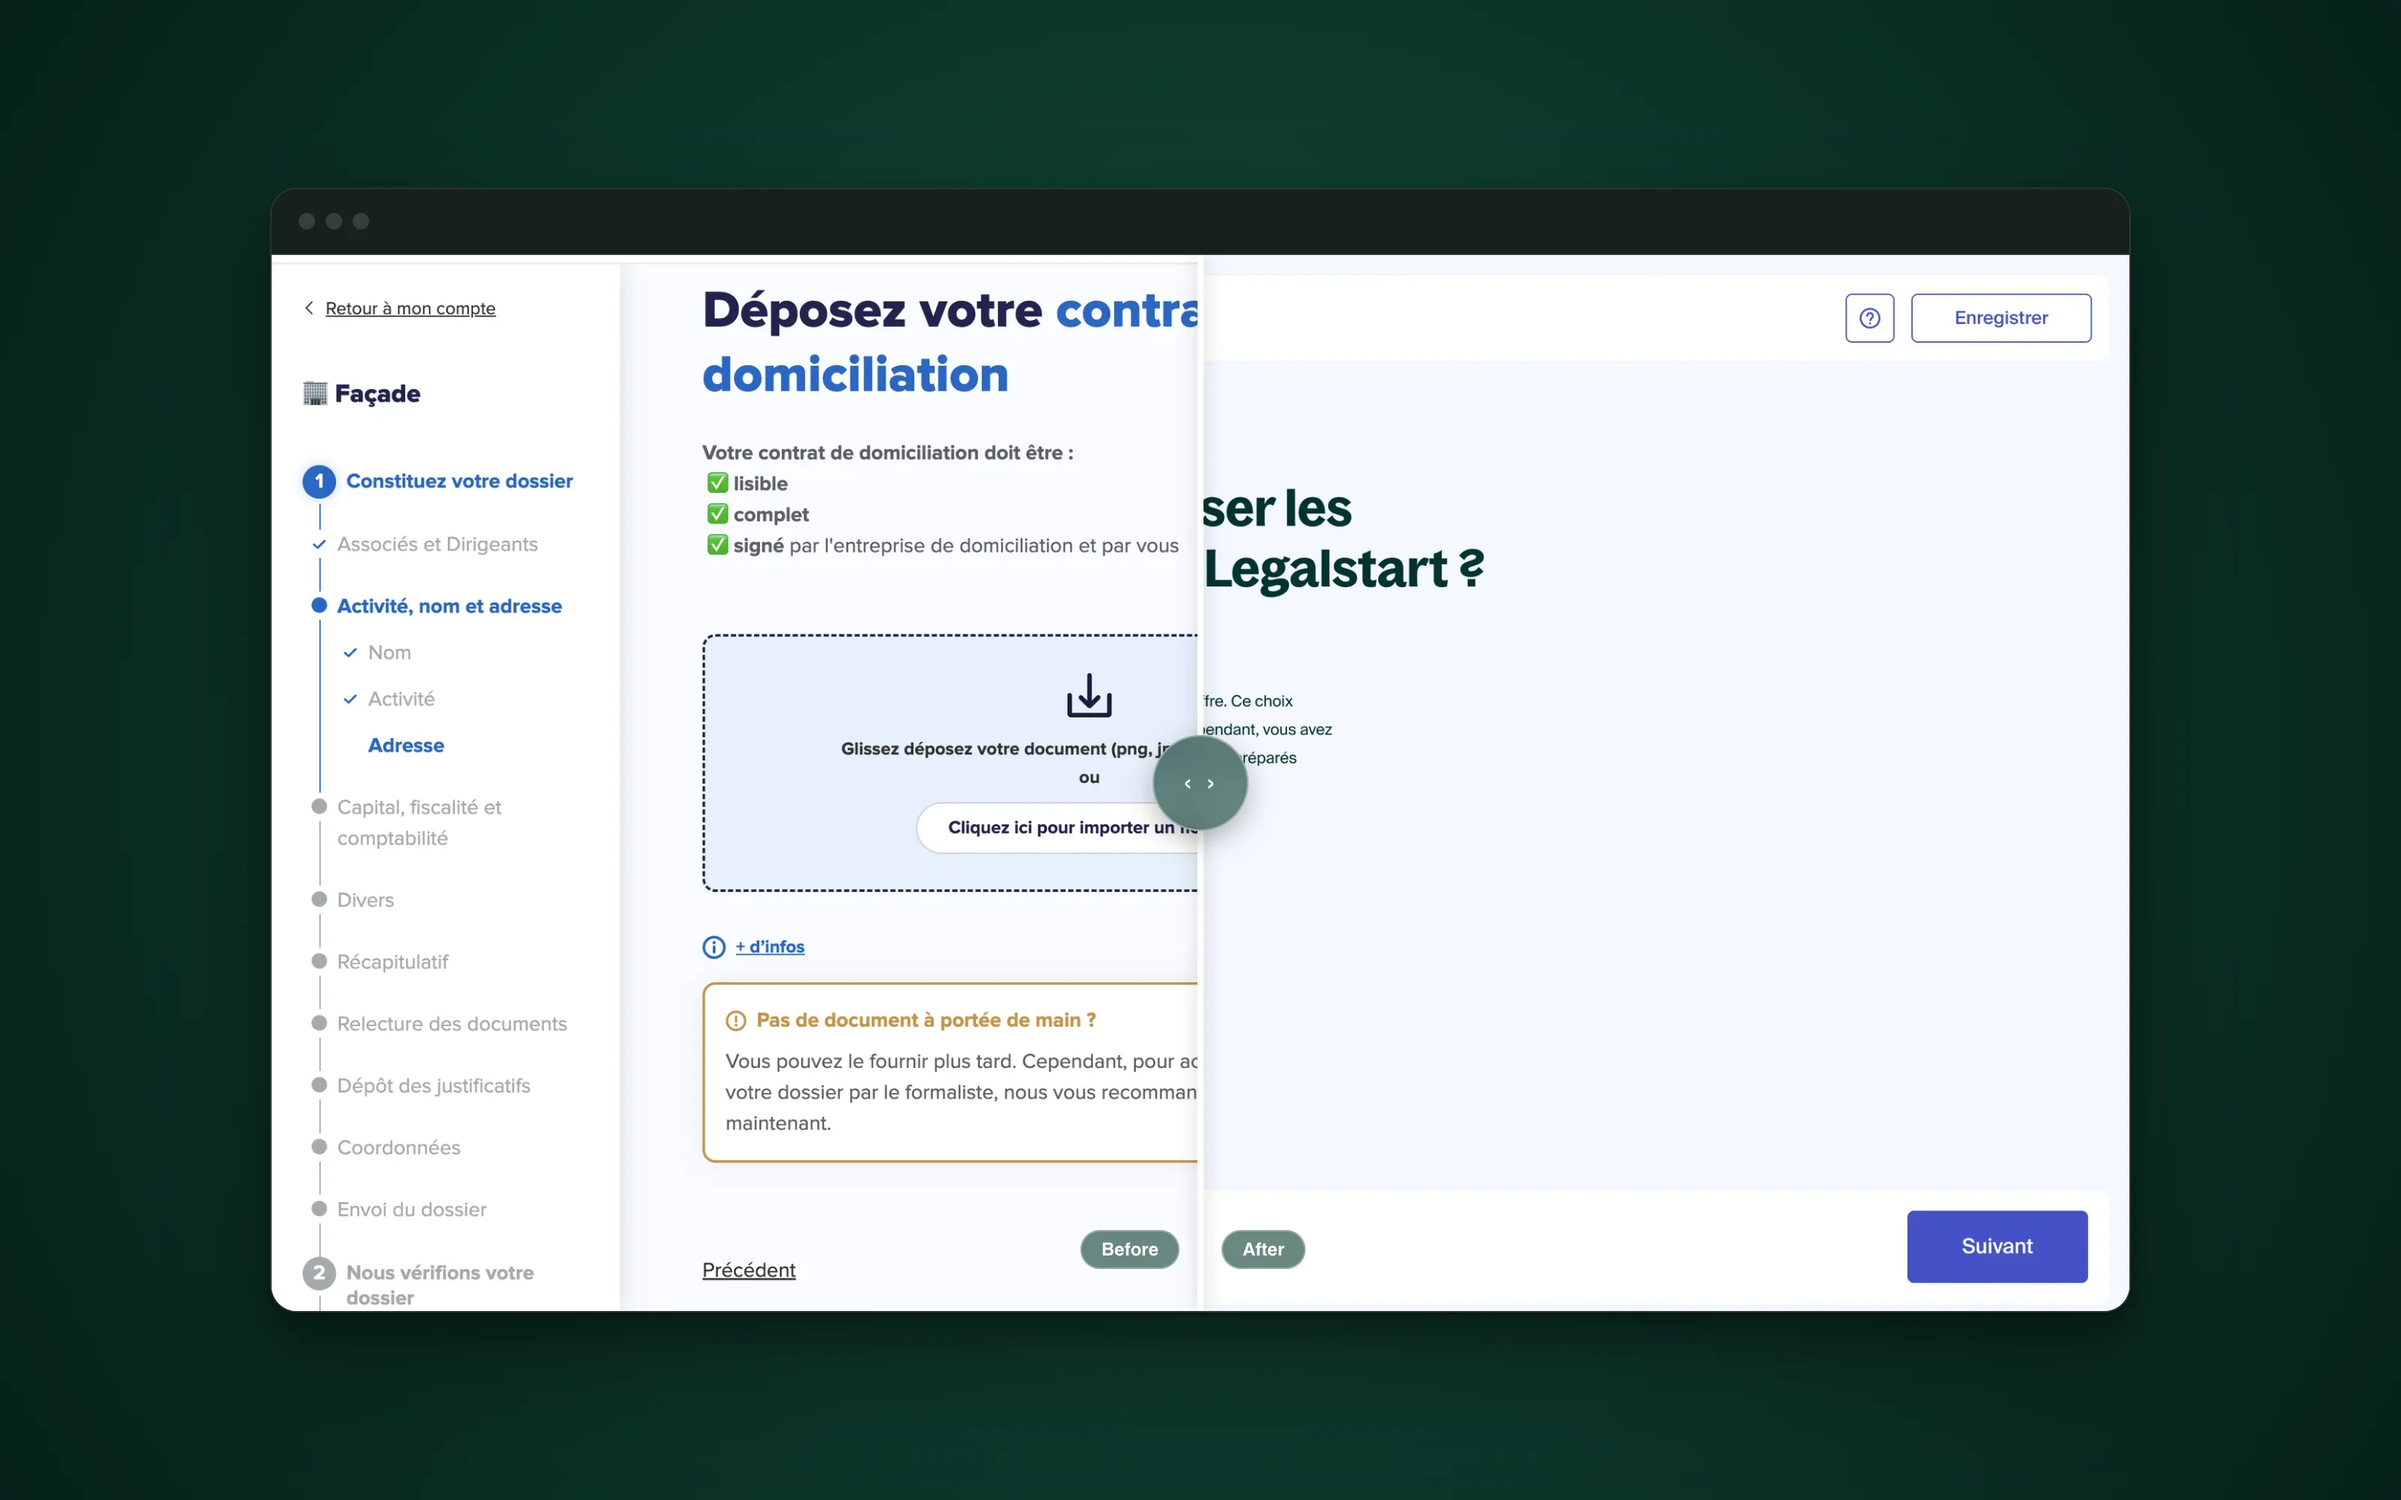
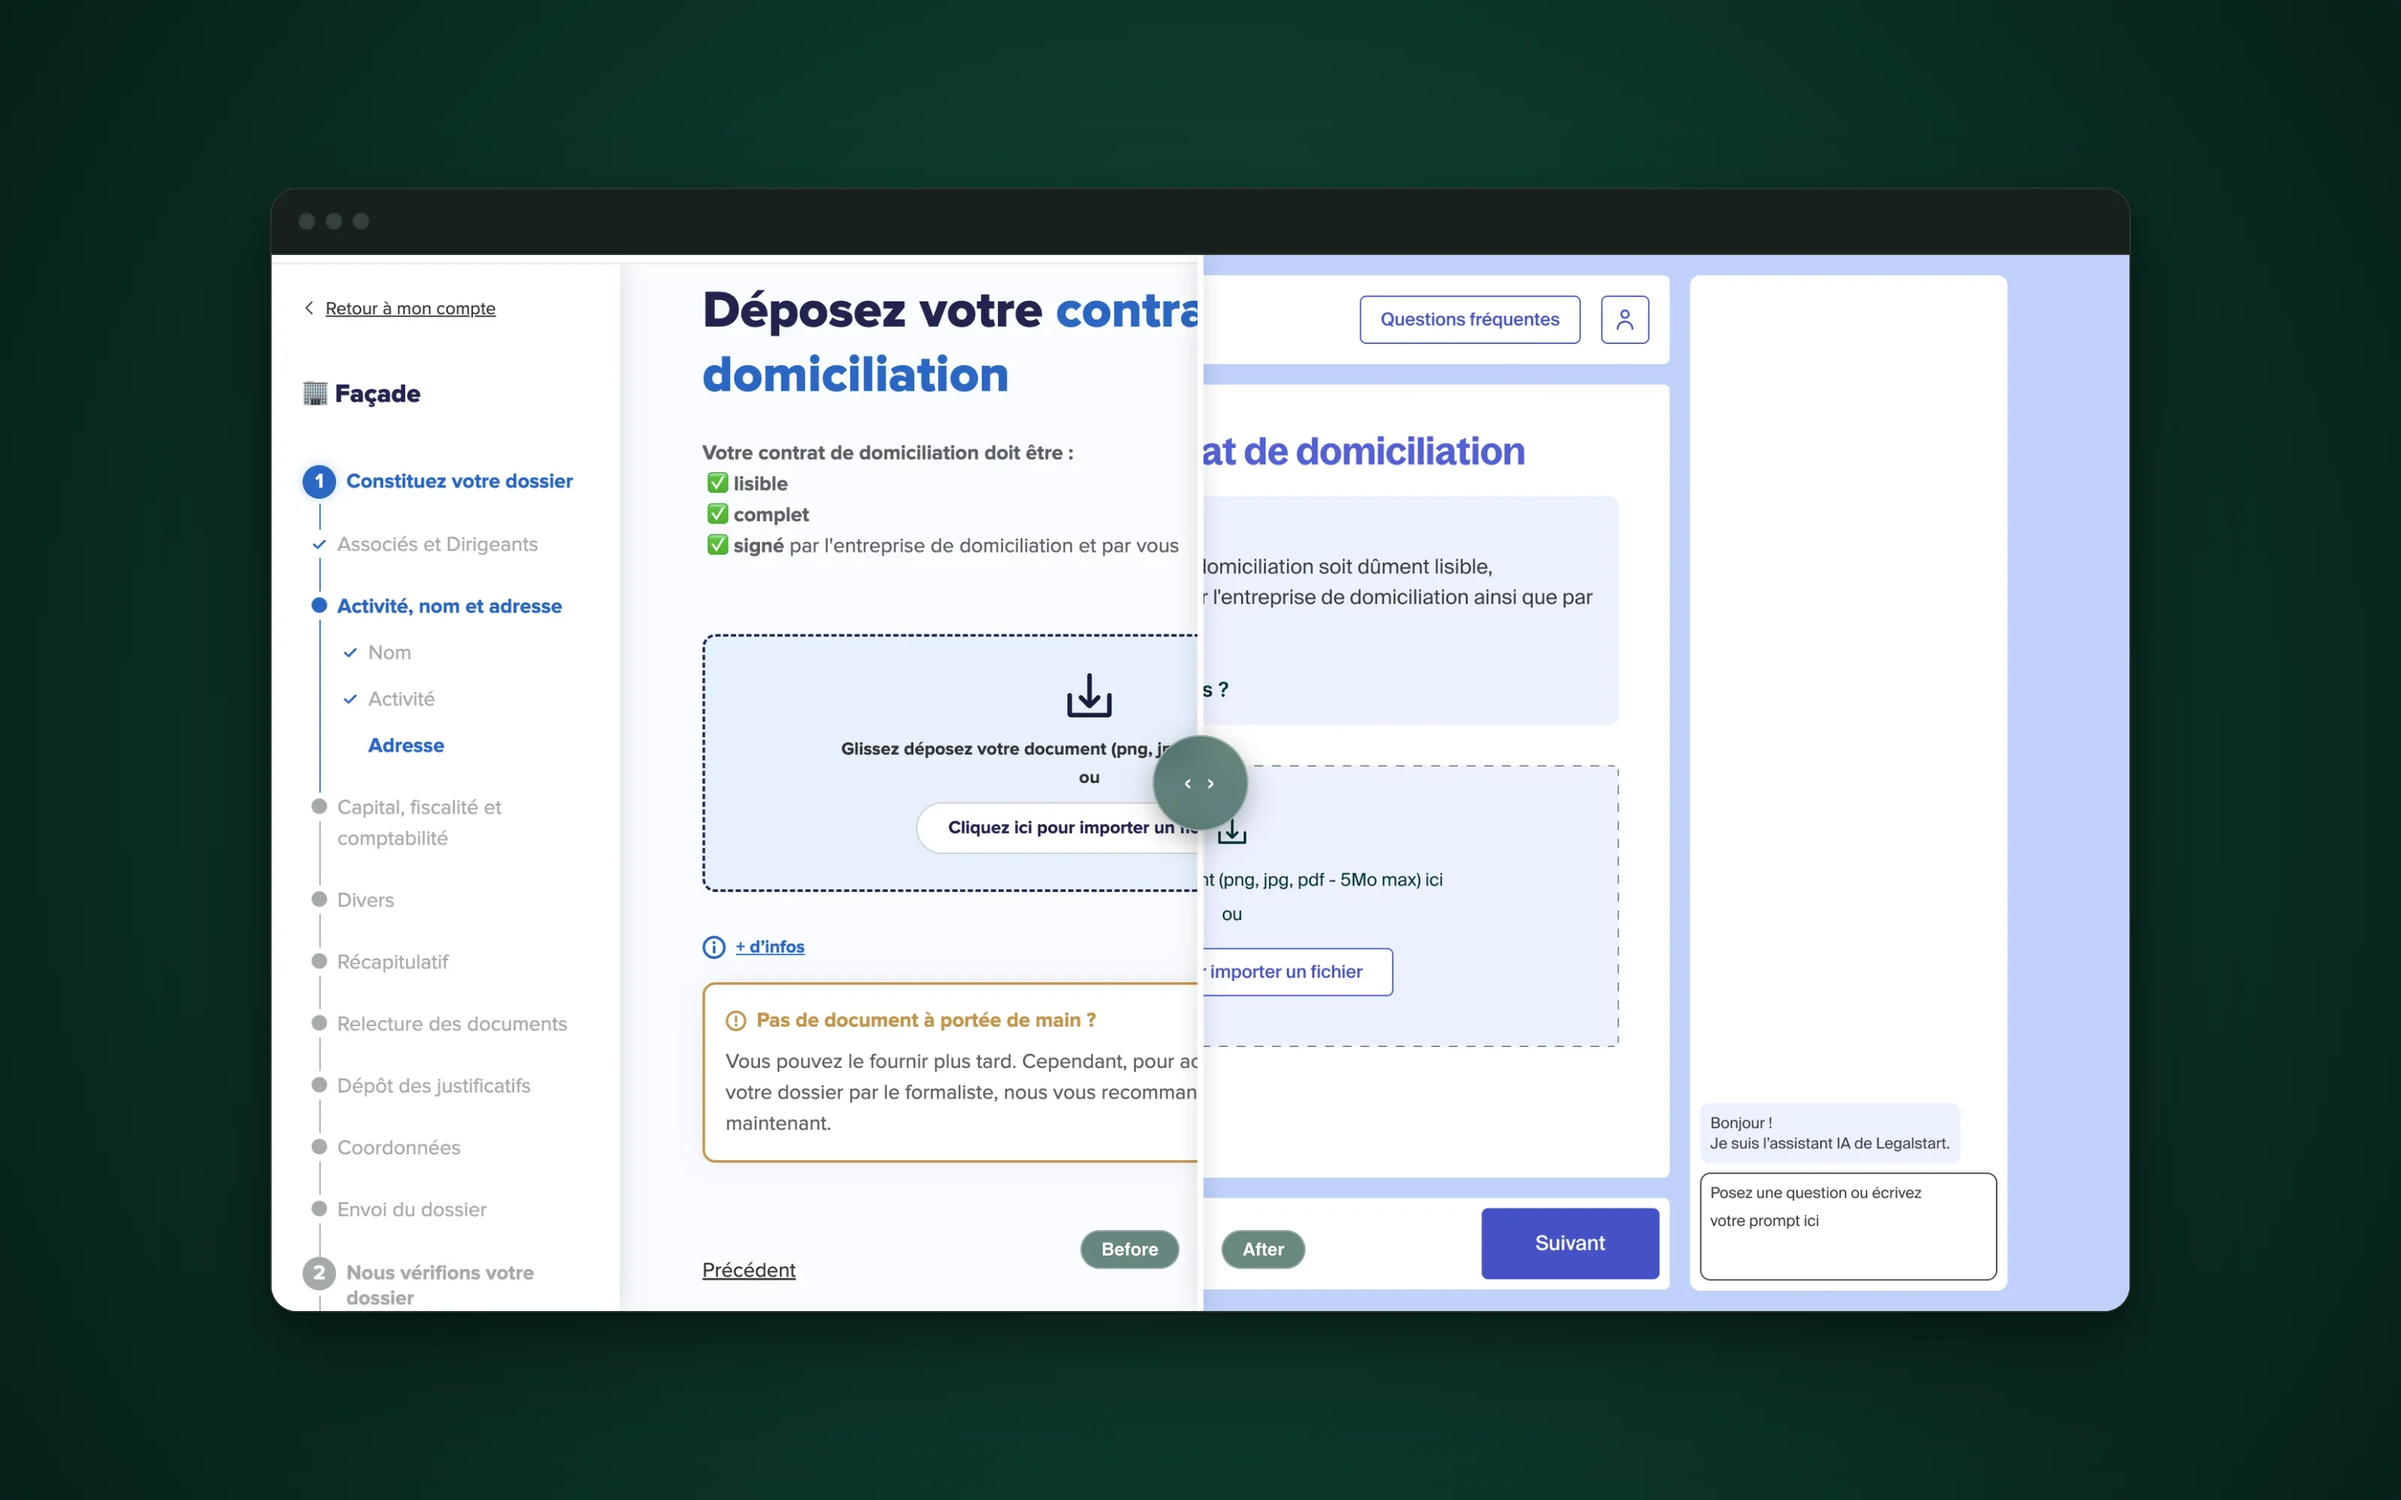
Legalstart slider: new after image from the Figma frame
After image is now the 'D - Adresse domiciliation entreprise' frame, the
same step as the before screenshot (uploading the domiciliation
contract). The whole frame is shown, fitted by height on its own
background. The static before/after pictures used on the homepage card
and as the no-script fallback are re-rendered from the slider.

diff --git a/work/legalstart/index.html b/work/legalstart/index.html
@@ -82,12 +82,12 @@
         <div class="ba-bar" aria-hidden="true"><span></span><span></span><span></span></div>
         <div class="ba-view">
           <picture class="ba-layer">
-            <source srcset="/assets/images/legalstart-rebrand-after-1280.webp 1280w, /assets/images/legalstart-rebrand-after.webp 2560w" sizes="(max-width: 900px) 92vw, 763px" type="image/webp">
-            <img src="/assets/images/legalstart-rebrand-after.png" alt="After: the redesigned Legalstart service flow" width="1280" height="728" fetchpriority="high" decoding="async">
+            <source srcset="/assets/images/legalstart-rebrand-after-1280.webp?v=2 1280w, /assets/images/legalstart-rebrand-after.webp?v=2 2560w" sizes="(max-width: 900px) 92vw, 763px" type="image/webp">
+            <img src="/assets/images/legalstart-rebrand-after.png?v=2" alt="After: the redesigned step for uploading the domiciliation contract, with the new progress timeline, upload area and assistant panel" width="1280" height="728" fetchpriority="high" decoding="async">
           </picture>
           <picture class="ba-layer ba-layer--before">
             <source srcset="/assets/images/legalstart-rebrand-before-1280.webp 1280w, /assets/images/legalstart-rebrand-before.webp 2560w" sizes="(max-width: 900px) 92vw, 763px" type="image/webp">
-            <img src="/assets/images/legalstart-rebrand-before.png" alt="Before: the previous Legalstart service flow" width="1280" height="728" fetchpriority="high" decoding="async">
+            <img src="/assets/images/legalstart-rebrand-before.png" alt="Before: the same step, uploading the domiciliation contract, in the previous design" width="1280" height="728" fetchpriority="high" decoding="async">
           </picture>
           <span class="ba-label ba-label--before" data-fr="Avant">Before</span>
           <span class="ba-label ba-label--after" data-fr="Après">After</span>
@@ -99,12 +99,12 @@
     <noscript>
       <div class="case-img-wrap">
         <picture class="theme-night">
-          <source srcset="/assets/images/legalstart-rebrand-night-1280.webp 1280w, /assets/images/legalstart-rebrand-night.webp 3200w" sizes="(max-width: 1100px) 100vw, 984px" type="image/webp">
-          <img class="case-img" src="/assets/images/legalstart-rebrand-night.png" alt="Legalstart service flow before and after the rebrand" width="1600" height="1000" loading="lazy" decoding="async">
+          <source srcset="/assets/images/legalstart-rebrand-night-1280.webp?v=2 1280w, /assets/images/legalstart-rebrand-night.webp?v=2 3200w" sizes="(max-width: 1100px) 100vw, 984px" type="image/webp">
+          <img class="case-img" src="/assets/images/legalstart-rebrand-night.png?v=2" alt="Legalstart service flow before and after the rebrand" width="1600" height="1000" loading="lazy" decoding="async">
         </picture>
         <picture class="theme-day">
-          <source srcset="/assets/images/legalstart-rebrand-day-1280.webp 1280w, /assets/images/legalstart-rebrand-day.webp 3200w" sizes="(max-width: 1100px) 100vw, 984px" type="image/webp">
-          <img class="case-img" src="/assets/images/legalstart-rebrand-day.png" alt="Legalstart service flow before and after the rebrand" width="1600" height="1000" loading="lazy" decoding="async">
+          <source srcset="/assets/images/legalstart-rebrand-day-1280.webp?v=2 1280w, /assets/images/legalstart-rebrand-day.webp?v=2 3200w" sizes="(max-width: 1100px) 100vw, 984px" type="image/webp">
+          <img class="case-img" src="/assets/images/legalstart-rebrand-day.png?v=2" alt="Legalstart service flow before and after the rebrand" width="1600" height="1000" loading="lazy" decoding="async">
         </picture>
       </div>
     </noscript>

diff --git a/index.html b/index.html
@@ -293,12 +293,12 @@
         </div>
         <div class="case-visual">
           <picture class="theme-night">
-            <source srcset="/assets/images/legalstart-rebrand-night-1280.webp 1280w, /assets/images/legalstart-rebrand-night.webp 3200w" sizes="(max-width: 860px) 100vw, 560px" type="image/webp">
-            <img class="case-visual-img case-visual-img--cover" src="/assets/images/legalstart-rebrand-night.png" alt="Legalstart service flow before and after the rebrand" width="1600" height="1000" loading="lazy" decoding="async">
+            <source srcset="/assets/images/legalstart-rebrand-night-1280.webp?v=2 1280w, /assets/images/legalstart-rebrand-night.webp?v=2 3200w" sizes="(max-width: 860px) 100vw, 560px" type="image/webp">
+            <img class="case-visual-img case-visual-img--cover" src="/assets/images/legalstart-rebrand-night.png?v=2" alt="Legalstart service flow before and after the rebrand" width="1600" height="1000" loading="lazy" decoding="async">
           </picture>
           <picture class="theme-day">
-            <source srcset="/assets/images/legalstart-rebrand-day-1280.webp 1280w, /assets/images/legalstart-rebrand-day.webp 3200w" sizes="(max-width: 860px) 100vw, 560px" type="image/webp">
-            <img class="case-visual-img case-visual-img--cover" src="/assets/images/legalstart-rebrand-day.png" alt="Legalstart service flow before and after the rebrand" width="1600" height="1000" loading="lazy" decoding="async">
+            <source srcset="/assets/images/legalstart-rebrand-day-1280.webp?v=2 1280w, /assets/images/legalstart-rebrand-day.webp?v=2 3200w" sizes="(max-width: 860px) 100vw, 560px" type="image/webp">
+            <img class="case-visual-img case-visual-img--cover" src="/assets/images/legalstart-rebrand-day.png?v=2" alt="Legalstart service flow before and after the rebrand" width="1600" height="1000" loading="lazy" decoding="async">
           </picture>
           <div class="case-mock">
             <div class="mock-sidebar">
